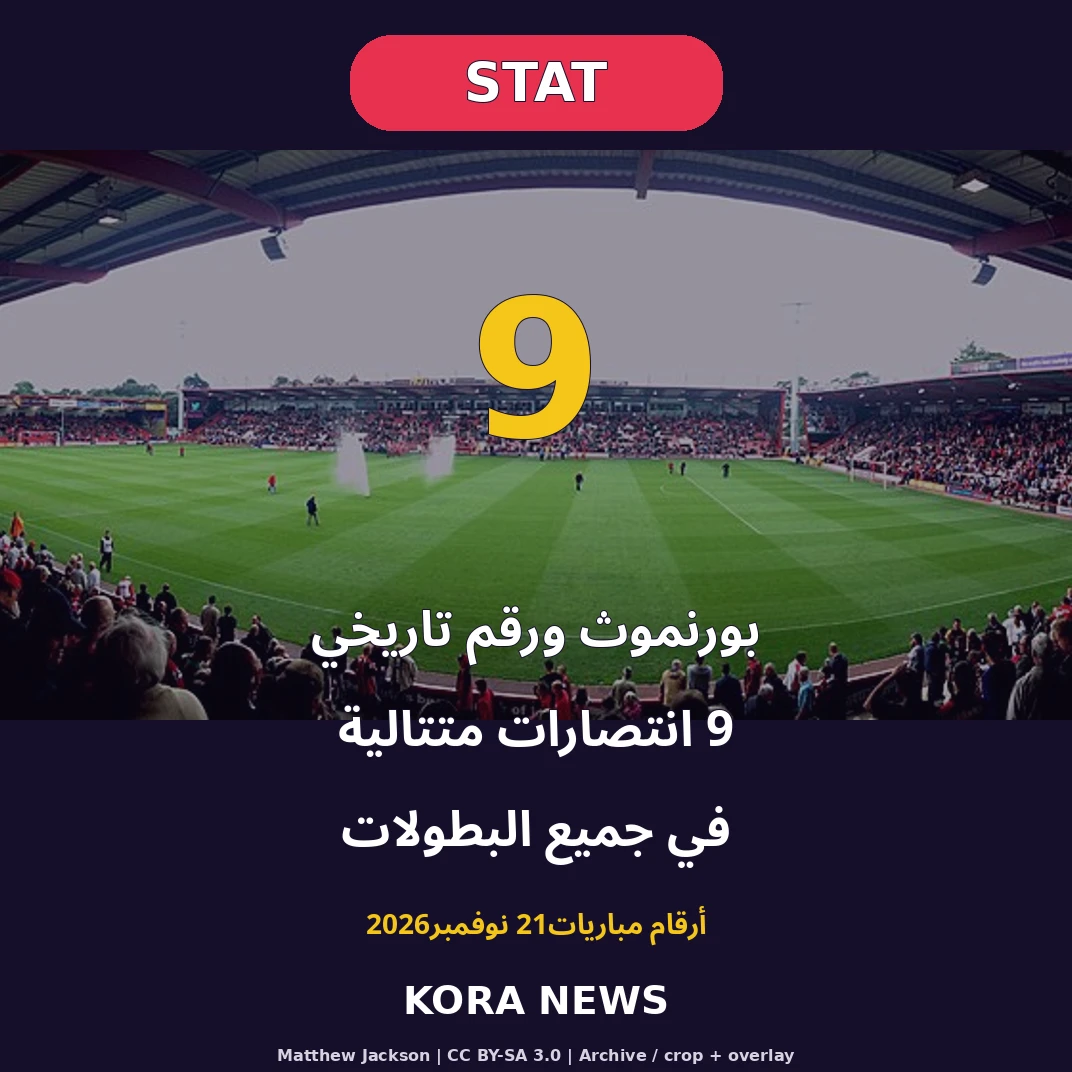
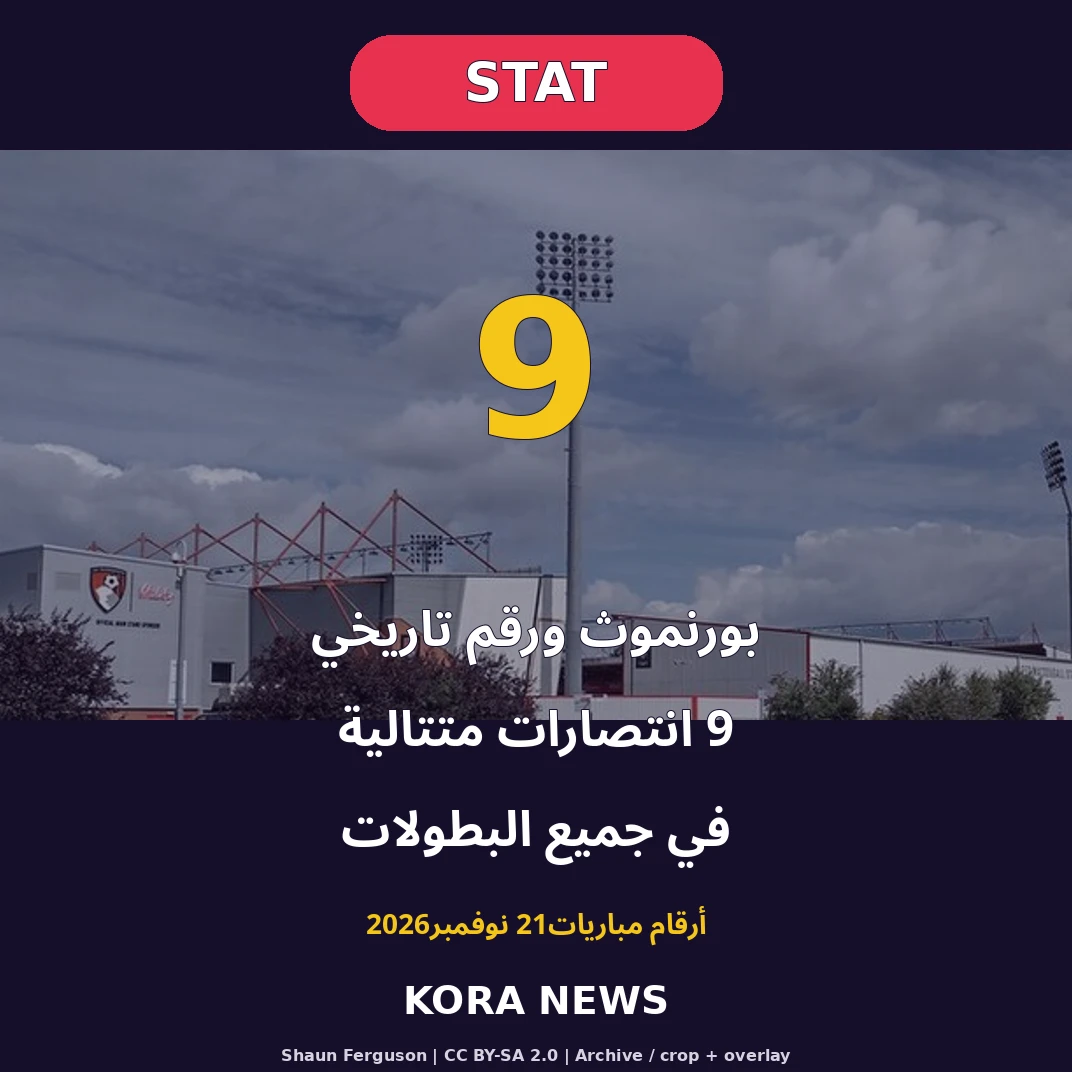
Refine statistics imagery to empty venues and Portman Road

diff --git a/posts/2026-11-22-stat-ipswich.md b/posts/2026-11-22-stat-ipswich.md
@@ -17,4 +17,4 @@ image: stat-ipswich.webp
 
 [المصدر: الدوري الإنجليزي، ماذا تعلمنا من مباريات السبت](https://www.premierleague.com/en/news/4766023/what-we-learned-from-saturdays-matches).
 
-الصورة أرشيفية لملعب توتنهام هوتسبير، ملعب مباراة توتنهام وإيبسويتش، وليست من مباراة21 نوفمبر2026. تصوير Arne Müseler / arne-mueseler.com، عبر [Wikimedia Commons](https://commons.wikimedia.org/wiki/File:London_Tottenham_Hotspur_Stadium.jpg)، بترخيص [CC BY-SA 3.0/de](https://creativecommons.org/licenses/by-sa/3.0/de/). أضيف قص وتعتيم ونصوص كورة نيوز. التصميم المعدل متاح بالترخيص نفسه. [موقع المصور](https://arne-mueseler.com).
+الصورة أرشيفية لملعب بورتمان رود، ملعب إيبسويتش، وليست من مباراة21 نوفمبر2026. تصوير James Cracknell، عبر [Wikimedia Commons](https://commons.wikimedia.org/wiki/File:Portman_Road_18.jpg)، بترخيص [CC BY-SA 4.0](https://creativecommons.org/licenses/by-sa/4.0/). أضيف قص وتعتيم ونصوص كورة نيوز. التصميم المعدل متاح بالترخيص نفسه.

diff --git a/posts/2026-11-22-stat-bournemouth.md b/posts/2026-11-22-stat-bournemouth.md
@@ -18,4 +18,4 @@ facebook: https://www.facebook.com/61550609084848/posts/122327090822020302
 
 [المصدر: الدوري الإنجليزي، ماذا تعلمنا من مباريات السبت](https://www.premierleague.com/en/news/4766023/what-we-learned-from-saturdays-matches).
 
-الصورة أرشيفية لملعب دين كورت، ملعب بورنموث، وليست من مباراة21 نوفمبر2026. تصوير Matthew Jackson، عبر [Wikimedia Commons](https://commons.wikimedia.org/wiki/File:Deancourt_14092013_vblackpool.jpg)، بترخيص [CC BY-SA 3.0](https://creativecommons.org/licenses/by-sa/3.0/). أضيف قص وتعتيم ونصوص كورة نيوز. التصميم المعدل متاح بالترخيص نفسه.
+الصورة أرشيفية لملعب دين كورت، ملعب بورنموث، وليست من مباراة21 نوفمبر2026. تصوير Shaun Ferguson، عبر [Wikimedia Commons](https://commons.wikimedia.org/wiki/File:Vitality_Stadium_-_geograph.org.uk_-_6950590.jpg)، بترخيص [CC BY-SA 2.0](https://creativecommons.org/licenses/by-sa/2.0/). أضيف قص وتعتيم ونصوص كورة نيوز. التصميم المعدل متاح بالترخيص نفسه.
